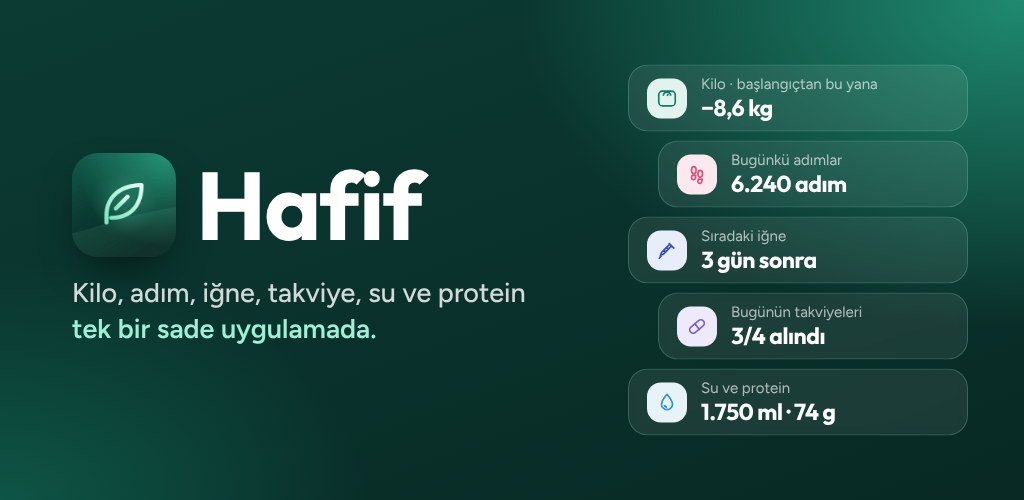
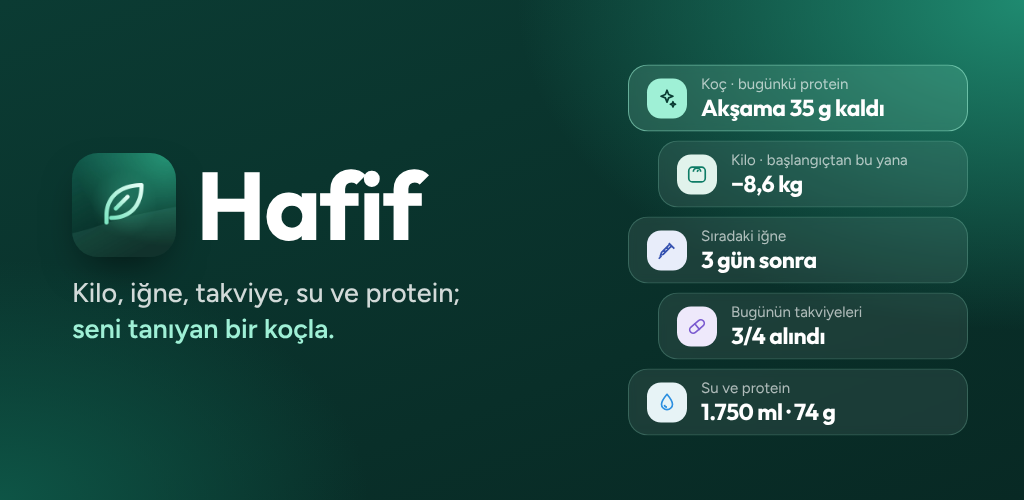
Özellik grafiği: adım kartı yerine koç kartı, alt başlık 'seni tanıyan bir koçla'
Claude-Session: https://claude.ai/code/session_01ERT3WxHgY3bECbR2LgZad1

Changed region(s): [[0.0625, 0.57, 0.5312, 0.69], [0.625, 0.15, 0.875, 0.24], [0.6562, 0.3, 0.9062, 0.39]]

diff --git a/magaza/kaynak/tanitim.html b/magaza/kaynak/tanitim.html
@@ -16,14 +16,15 @@ p b{color:#9FF0D6;font-weight:600}
 .c span{font-size:15px;color:rgba(255,255,255,.65);display:block}
 .c b{font:700 23px "Outfit";letter-spacing:-.02em}
 .c:nth-child(2),.c:nth-child(4){margin-left:30px}
+.c.k{background:rgba(159,240,214,.16);border-color:rgba(159,240,214,.55)}
 </style></head><body><div class="g">
  <div class="l">
   <div class="brand"><img src="ikon.png"><h1>Hafif</h1></div>
-  <p>Kilo, adım, iğne, takviye, su ve protein<br><b>tek bir sade uygulamada.</b></p>
+  <p>Kilo, iğne, takviye, su ve protein;<br><b>seni tanıyan bir koçla.</b></p>
  </div>
  <div class="r">
+  <div class="c k"><i style="background:#9FF0D6;color:#0B3B33"><svg width="22" height="22" viewBox="0 0 24 24" fill="none" stroke="currentColor" stroke-width="1.9" stroke-linejoin="round"><path d="M12 3l1.8 4.7L18.5 9.5l-4.7 1.8L12 16l-1.8-4.7L5.5 9.5l4.7-1.8z"/><path d="M18.5 15.5l.8 2 2 .8-2 .8-.8 2-.8-2-2-.8 2-.8z"/></svg></i><div><span>Koç · bugünkü protein</span><b>Akşama 35 g kaldı</b></div></div>
   <div class="c"><i style="background:#E1F3EC;color:#0E7C66"><svg width="22" height="22" viewBox="0 0 24 24" fill="none" stroke="currentColor" stroke-width="1.8"><rect x="3" y="4" width="18" height="16" rx="4"/><path d="M8 9a4 4 0 0 1 8 0M12 9l1.5-2"/></svg></i><div><span>Kilo · başlangıçtan bu yana</span><b>−8,6 kg</b></div></div>
-  <div class="c"><i style="background:#FCE8EF;color:#E0507A"><svg width="22" height="22" viewBox="0 0 24 24" fill="none" stroke="currentColor" stroke-width="1.9" stroke-linecap="round" stroke-linejoin="round"><path d="M8.5 3.5c1.6 0 2.5 1.6 2.5 3.8S10 11 8.6 11 6 9.5 6 7.3s.9-3.8 2.5-3.8zM6.6 13h4l-.4 3a2.2 2.2 0 0 1-4.3-.3z"/><path d="M15.5 7.5c1.6 0 2.5 1.6 2.5 3.8S17 15 15.6 15 13 13.5 13 11.3s.9-3.8 2.5-3.8zM13.6 17h4l-.4 3a2.2 2.2 0 0 1-4.3-.3z"/></svg></i><div><span>Bugünkü adımlar</span><b>6.240 adım</b></div></div>
   <div class="c"><i style="background:#E8EDFA;color:#3552B0"><svg width="22" height="22" viewBox="0 0 24 24" fill="none" stroke="currentColor" stroke-width="1.8"><path d="M14 4l6 6M17 7l-9 9-3 1 1-3 9-9M6 18l-3 3M11 8l2 2M8 11l2 2"/></svg></i><div><span>Sıradaki iğne</span><b>3 gün sonra</b></div></div>
   <div class="c"><i style="background:#EEE9FB;color:#7B5BD0"><svg width="22" height="22" viewBox="0 0 24 24" fill="none" stroke="currentColor" stroke-width="1.8" stroke-linecap="round" stroke-linejoin="round"><rect x="2.8" y="8.2" width="18.4" height="7.6" rx="3.8" transform="rotate(-40 12 12)"/><path d="M9.6 9.1l5.1 6.1"/></svg></i><div><span>Bugünün takviyeleri</span><b>3/4 alındı</b></div></div>
   <div class="c"><i style="background:#E7F3F6;color:#2C8FE0"><svg width="22" height="22" viewBox="0 0 24 24" fill="none" stroke="currentColor" stroke-width="1.8" stroke-linejoin="round"><path d="M12 3c3.5 4.2 6 7.6 6 10.8A6 6 0 0 1 6 13.8C6 10.6 8.5 7.2 12 3z"/><path d="M9.2 14.5a3 3 0 0 0 2.8 2.6"/></svg></i><div><span>Su ve protein</span><b>1.750 ml · 74 g</b></div></div>
